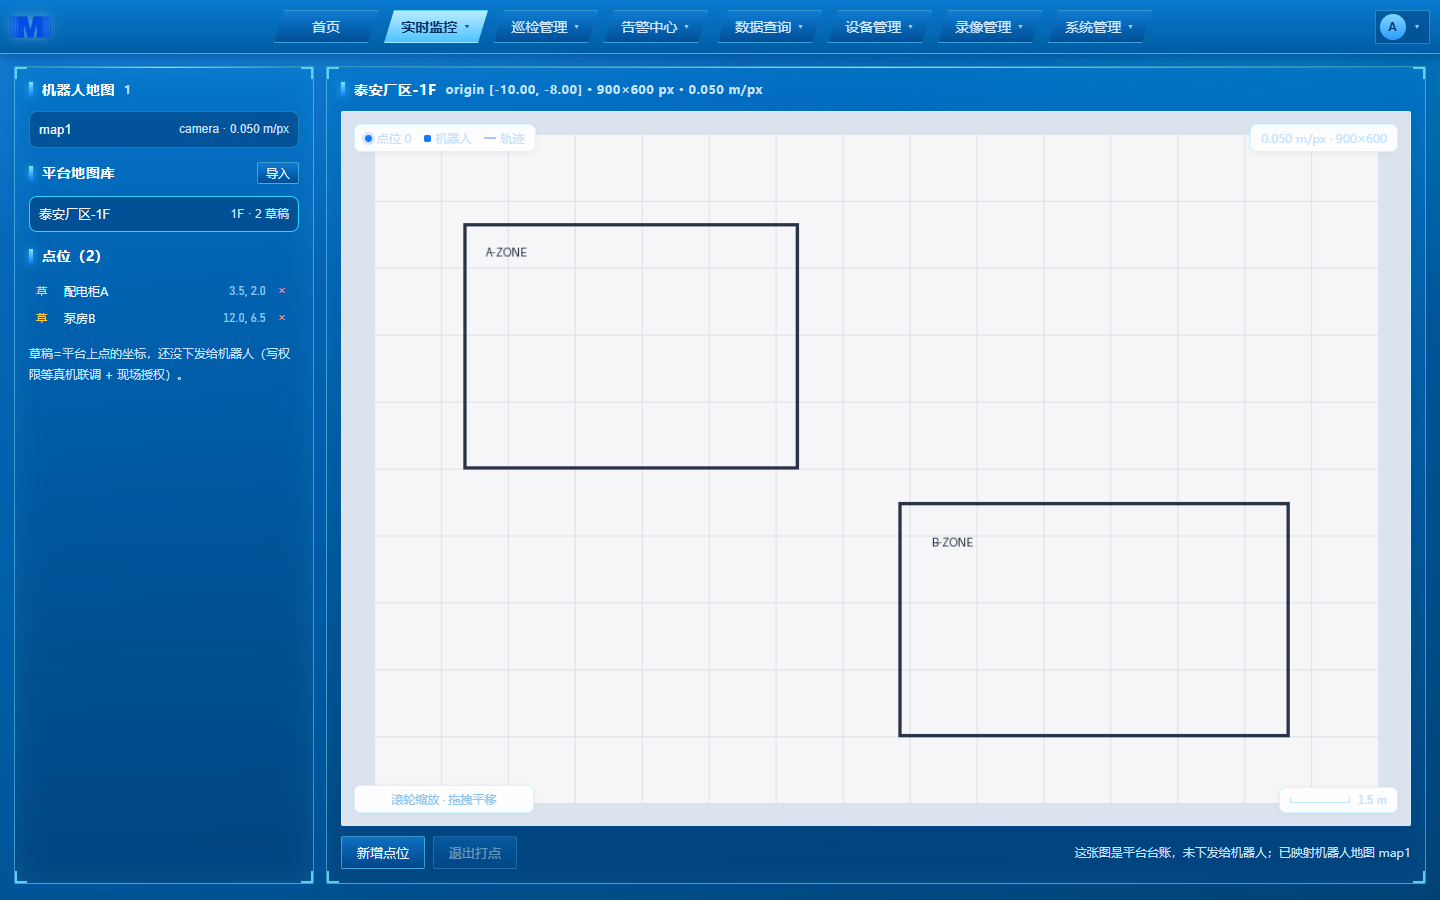
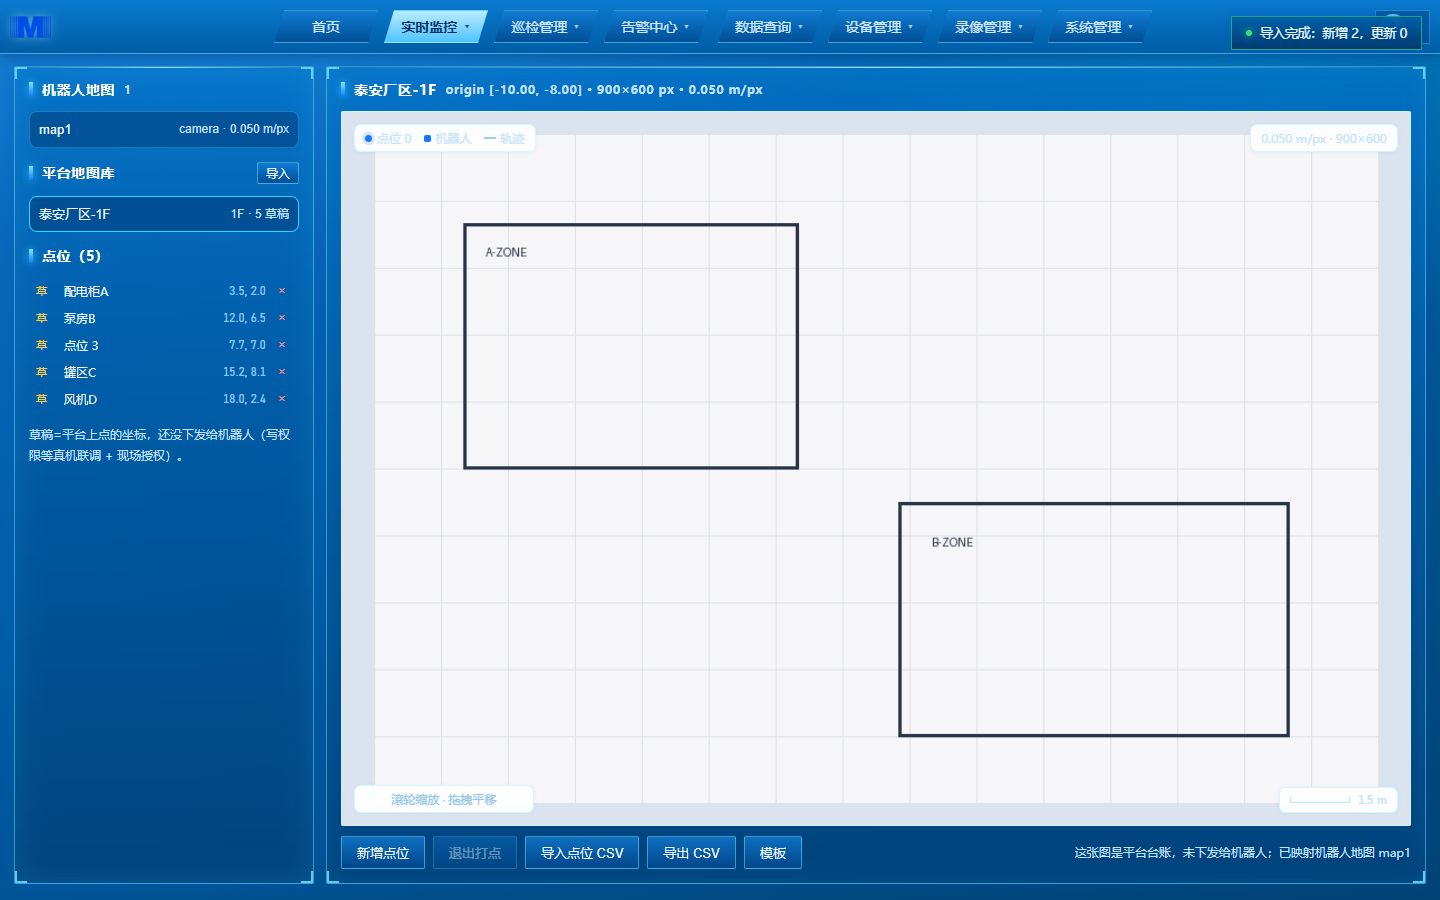
feat: 点位 CSV 批量导入/导出 + 模板
- POST /maps/library/{id}/points/import：解析 CSV（UTF-8/GBK 自适应），
  同名视为更新不重复插入，逐行报错不中断
- GET .../points/export：带 BOM 的 CSV，Excel 直接打开不乱码
- 地图页新增 导入/导出/模板 三个按钮，实测 3→5 个点位，提示「新增 2，更新 0」

Changed region(s): [[0.0, 0.3733, 0.2188, 0.5289], [0.3438, 0.9022, 0.5625, 0.9644], [0.8438, 0.0, 1.0, 0.0622]]

diff --git a/web/src/pages/MapPage.vue b/web/src/pages/MapPage.vue
@@ -34,6 +34,40 @@ const impForm = ref({
 })
 const impFile = ref<File | null>(null)
 const impBusy = ref(false)
+const csvInput = ref<HTMLInputElement | null>(null)
+
+function pickCsv() { csvInput.value?.click() }
+
+async function onCsv(e: Event) {
+  const f = (e.target as HTMLInputElement).files?.[0]
+  if (!f || !libId.value) return
+  try {
+    const res = await api.importPoints(libId.value, f)
+    const bad = res.errors.length ? `，${res.errors.length} 行有问题：${res.errors.slice(0, 2).join('；')}` : ''
+    toast(`导入完成：新增 ${res.created}，更新 ${res.updated}${bad}`, res.errors.length ? 'warn' : 'ok', 5000)
+    await loadDrafts(libId.value)
+    await refreshLibrary()
+  } catch (err) {
+    toast(err instanceof ApiError ? err.message : '导入失败', 'danger')
+  } finally {
+    if (csvInput.value) csvInput.value.value = ''
+  }
+}
+
+function exportCsv() {
+  if (!libId.value) return
+  window.open(api.exportPointsUrl(libId.value), '_blank')
+}
+
+function downloadTemplate() {
+  const csv = 'name,x,y,theta,note\n示例点位A,3.5,2.0,0,正对配电柜\n'
+  const url = URL.createObjectURL(new Blob([csv], { type: 'text/csv;charset=utf-8' }))
+  const a = document.createElement('a')
+  a.href = url
+  a.download = 'points_template.csv'
+  a.click()
+  URL.revokeObjectURL(url)
+}
 
 const libMap = computed(() => library.value.find((m) => m.id === libId.value) ?? null)
 const robotMap = computed(() => robotMaps.value.find((m) => m.name === selectedName.value) ?? null)
@@ -250,6 +284,12 @@ onMounted(async () => {
           新增点位
         </button>
         <button class="btn" :disabled="!picking" @click="picking = false">退出打点</button>
+        <template v-if="libId">
+          <button class="btn" title="CSV 列：name,x,y,theta,note" @click="pickCsv">导入点位 CSV</button>
+          <button class="btn" :disabled="!pointRows.length" @click="exportCsv">导出 CSV</button>
+          <button class="btn" title="下载一个只有表头的模板" @click="downloadTemplate">模板</button>
+          <input ref="csvInput" type="file" accept=".csv,text/csv" style="display: none" @change="onCsv" />
+        </template>
         <span class="spacer" />
         <span class="muted small" v-if="libId">
           这张图是平台台账，未下发给机器人；{{ libMap?.robot_map_name ? `已映射机器人地图 ${libMap.robot_map_name}` : '还没和机器人地图对应' }}

diff --git a/web/src/api/index.ts b/web/src/api/index.ts
@@ -279,6 +279,13 @@ export const api = {
   libraryPoints: (id: number) => request<PointDraft[]>(`/maps/library/${id}/points`),
   addLibraryPoint: (id: number, body: { name: string; x: number; y: number; note?: string | null }) =>
     request<PointDraft>(`/maps/library/${id}/points`, { method: 'POST', body }),
+  importPoints: (mapId: number, file: File) => {
+    const fd = new FormData()
+    fd.append('file', file)
+    return request<{ created: number; updated: number; errors: string[]; total: number }>(
+      `/maps/library/${mapId}/points/import`, { method: 'POST', raw: fd })
+  },
+  exportPointsUrl: (mapId: number) => `/api/v1/maps/library/${mapId}/points/export`,
   deleteLibraryPoint: (pointId: number) =>
     request<{ ok: boolean }>(`/maps/library/points/${pointId}`, { method: 'DELETE' }),
   currentMap: (id = 1) => request<{ name: string; md5sum?: string }>(`/robots/${id}/map/current`),

diff --git a/server/app/api/v1/map_library.py b/server/app/api/v1/map_library.py
@@ -199,6 +199,99 @@ def add_point(
     return {"id": p.id, "name": p.name, "x": p.x, "y": p.y, "synced": p.synced}
 
 
+@router.post("/{map_id}/points/import", dependencies=[Depends(require_csrf)])
+def import_points(
+    map_id: int,
+    file: UploadFile = File(...),
+    db: Session = Depends(get_db),
+    me: User = Depends(require_roles("admin", "operator")),
+) -> dict:
+    """CSV 批量导入点位草稿。
+
+    表头：name,x,y,theta,note（name/x/y 必填，theta 默认 0）。
+    同名点位视为更新，不会重复插入；单行出错不影响其他行。
+    """
+    import csv
+
+    if not db.get(PlatformMap, map_id):
+        raise NotFound("地图不存在")
+
+    raw = file.file.read()
+    try:
+        text = raw.decode("utf-8-sig")
+    except UnicodeDecodeError:
+        text = raw.decode("gbk", "replace")
+
+    rows = list(csv.DictReader(io.StringIO(text)))
+    if not rows:
+        raise BadRequest("CSV 是空的", code="EMPTY_CSV")
+
+    existing = {p.name: p for p in db.query(PointDraft).filter(PointDraft.map_id == map_id).all()}
+    created = updated = 0
+    errors: list[str] = []
+
+    for i, row in enumerate(rows, start=2):
+        name = (row.get("name") or "").strip()
+        if not name:
+            errors.append(f"第 {i} 行：缺 name")
+            continue
+        try:
+            x = float(row.get("x") or "")
+            y = float(row.get("y") or "")
+        except ValueError:
+            errors.append(f"第 {i} 行（{name}）：x/y 不是数字")
+            continue
+        theta = 0.0
+        if (row.get("theta") or "").strip():
+            try:
+                theta = float(row["theta"])
+            except ValueError:
+                errors.append(f"第 {i} 行（{name}）：theta 不是数字，按 0 处理")
+
+        if name in existing:
+            p = existing[name]
+            p.x, p.y, p.theta = x, y, theta
+            p.note = row.get("note") or p.note
+            updated += 1
+        else:
+            p = PointDraft(map_id=map_id, name=name, x=x, y=y, theta=theta,
+                           note=row.get("note") or None)
+            db.add(p)
+            existing[name] = p
+            created += 1
+
+    db.commit()
+    audit(db=db, action="point.import", target=f"map{map_id}", user=me,
+          detail={"created": created, "updated": updated, "errors": len(errors)})
+    return {"created": created, "updated": updated, "errors": errors[:20],
+            "total": created + updated}
+
+
+@router.get("/{map_id}/points/export")
+def export_points(map_id: int, db: Session = Depends(get_db),
+                  _: User = Depends(get_current_user)):
+    """导出点位 CSV（含模板列），可直接拿去改完再导入。"""
+    import csv
+
+    if not db.get(PlatformMap, map_id):
+        raise NotFound("地图不存在")
+    rows = db.query(PointDraft).filter(PointDraft.map_id == map_id).order_by(PointDraft.id).all()
+
+    buf = io.StringIO()
+    w = csv.writer(buf)
+    w.writerow(["name", "x", "y", "theta", "note"])
+    for r in rows:
+        w.writerow([r.name, r.x, r.y, r.theta, r.note or ""])
+
+    from fastapi.responses import Response
+
+    return Response(
+        content=buf.getvalue().encode("utf-8-sig"),
+        media_type="text/csv",
+        headers={"Content-Disposition": f'attachment; filename="points_map{map_id}.csv"'},
+    )
+
+
 @router.delete("/points/{point_id}", dependencies=[Depends(require_csrf)])
 def delete_point(point_id: int, db: Session = Depends(get_db),
                  me: User = Depends(require_roles("admin", "operator"))) -> dict:
